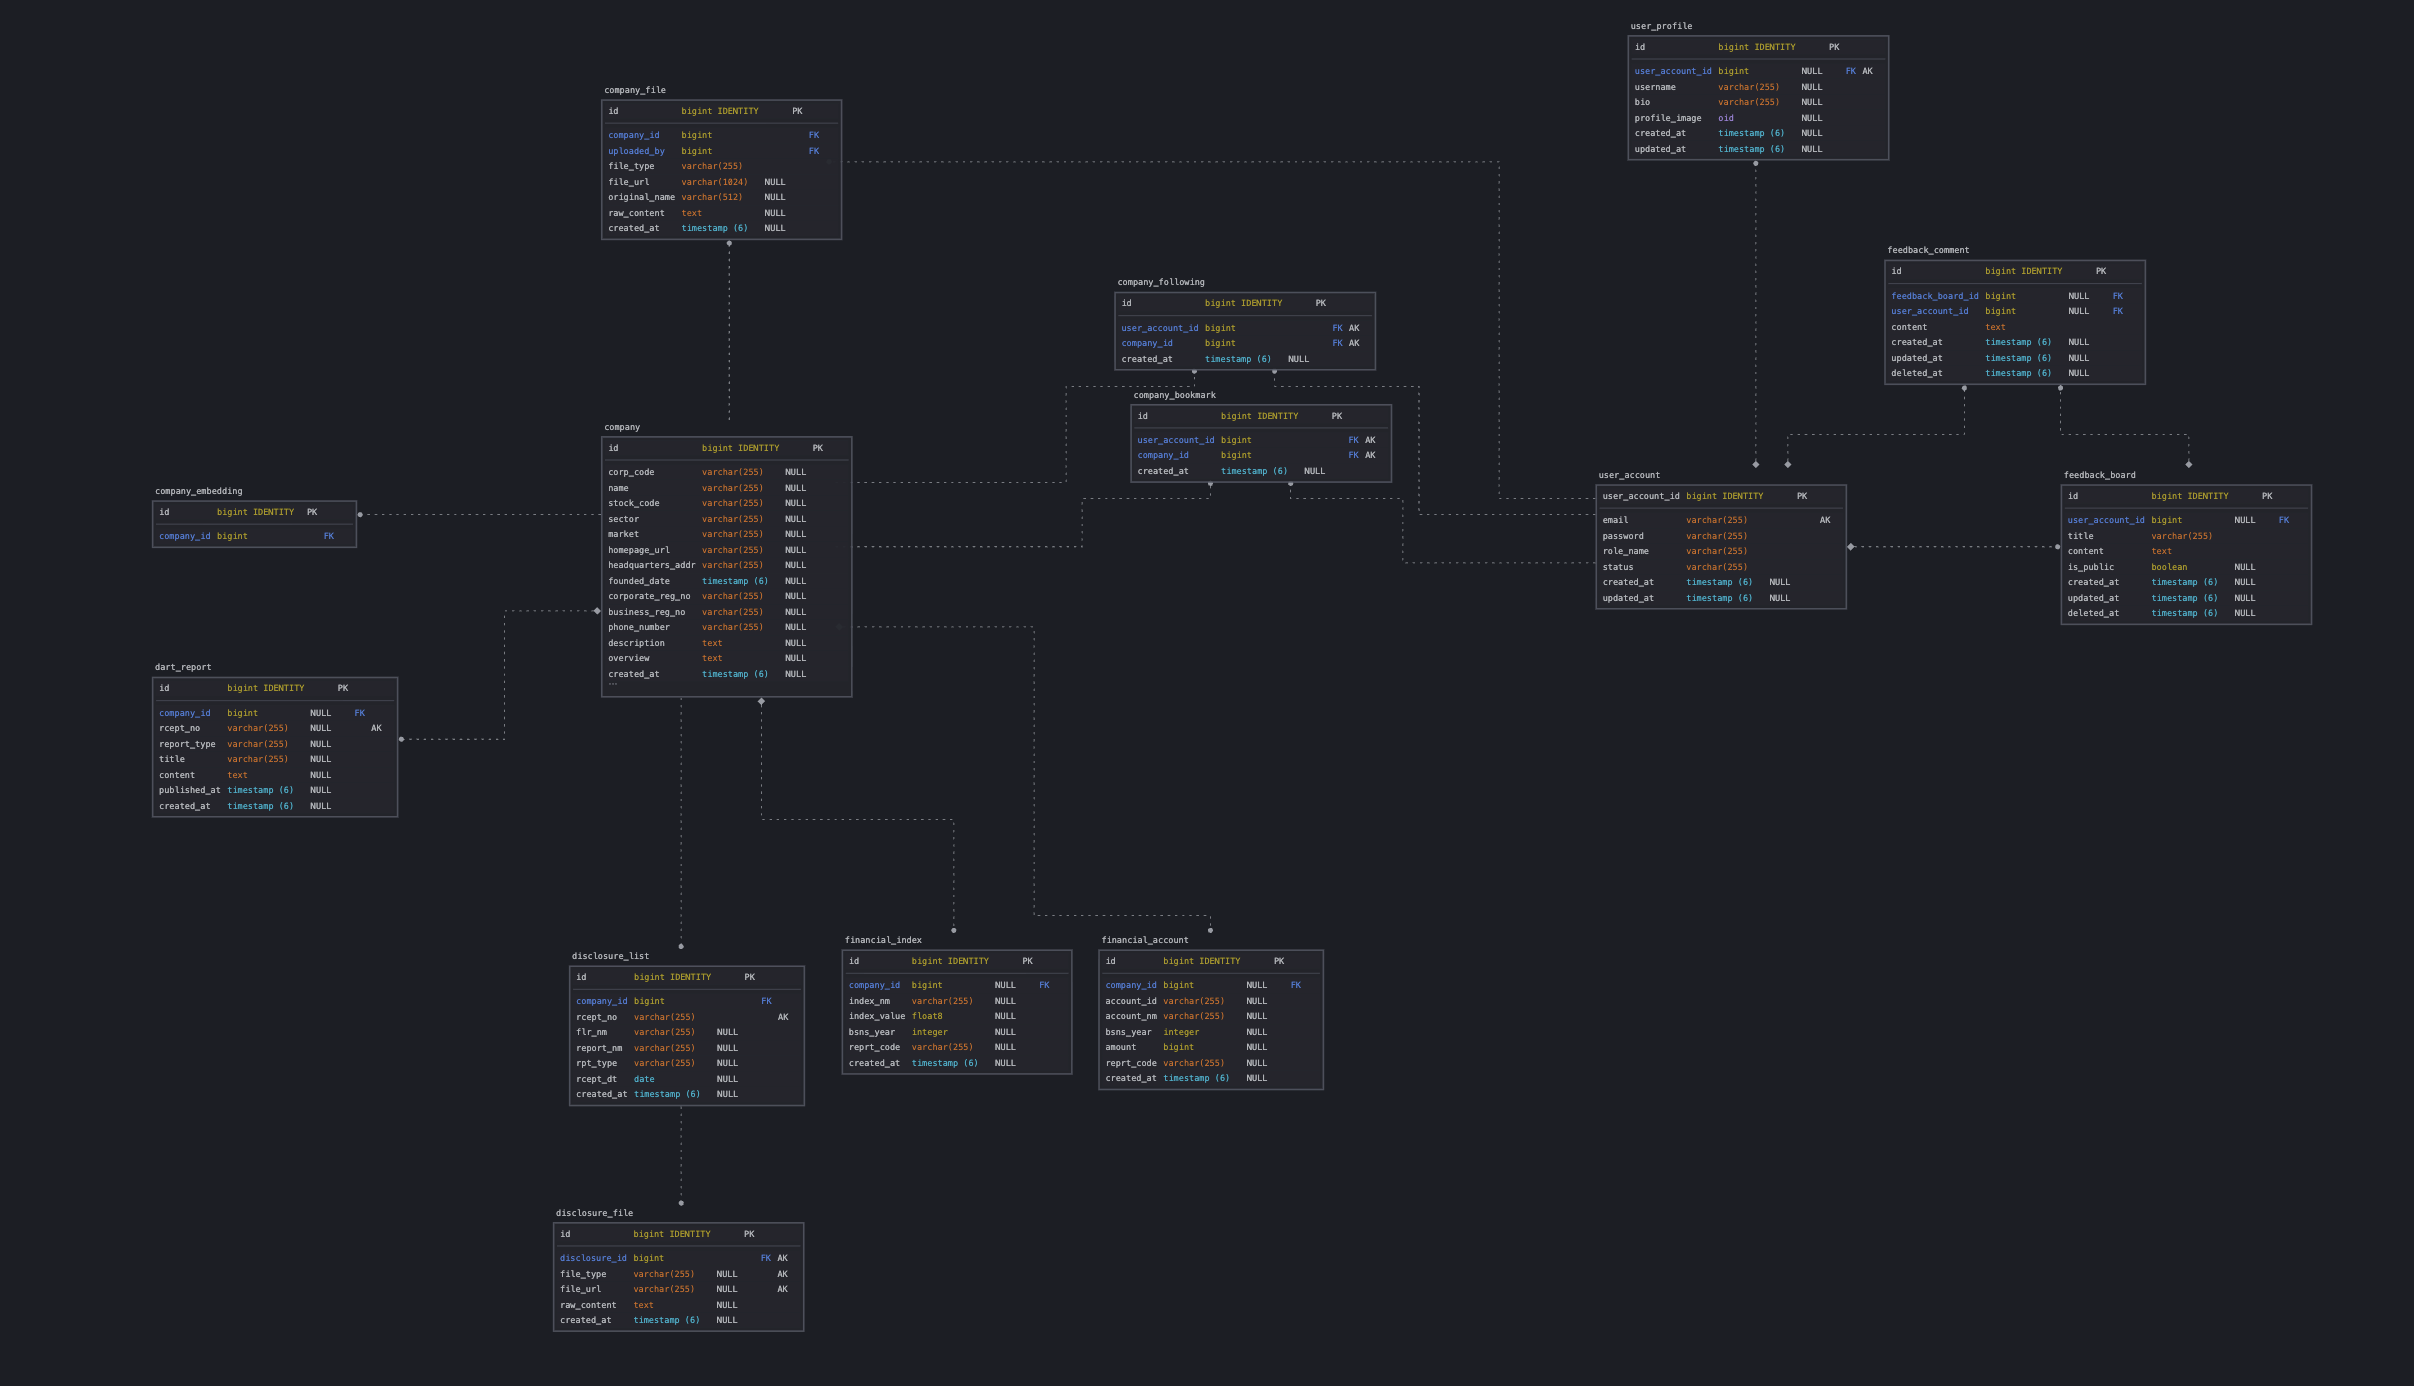
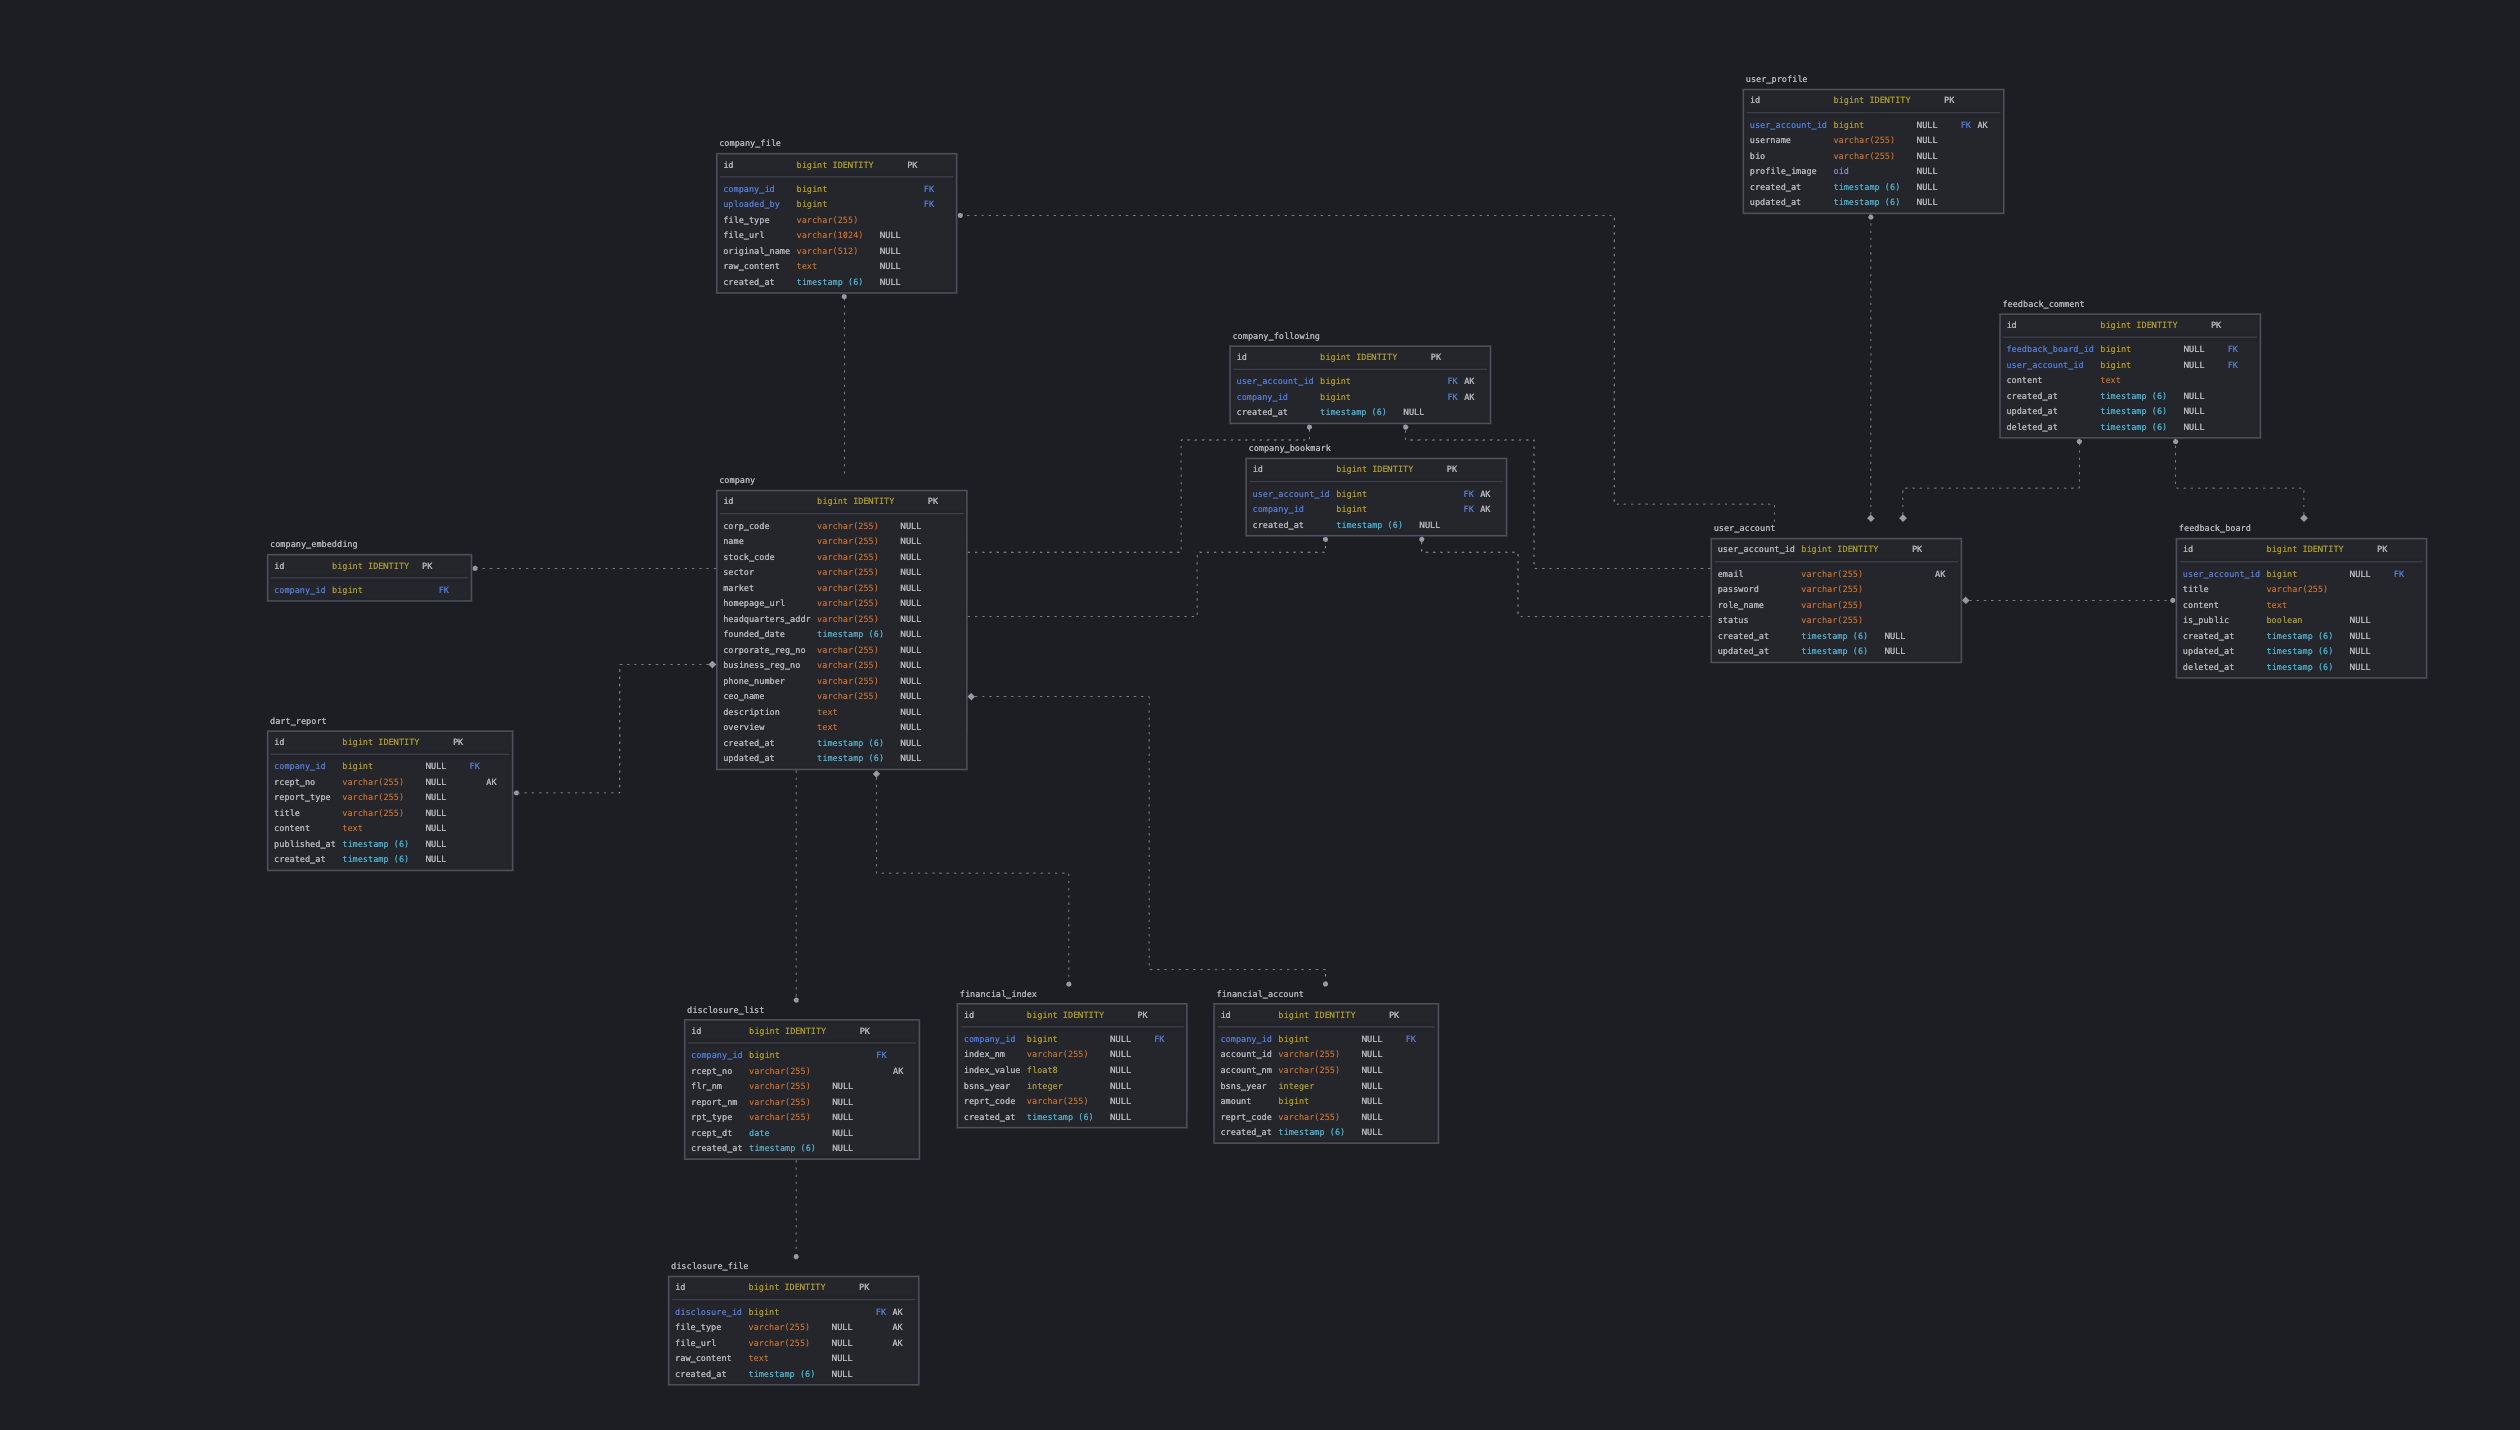
chore : company entity CEO NAME 추가

diff --git a/src/main/java/com/finnai/domain/company/entity/Company.java b/src/main/java/com/finnai/domain/company/entity/Company.java
@@ -48,6 +48,8 @@ public class Company {
     private String businessRegNo;
     // 대표전화 (내부 수집값)
     private String phoneNumber;
+    // 대표이름
+    private String ceoName;
 
     // 회사 개요 (요약, 내부 수집값)
     @Column(columnDefinition = "TEXT")
